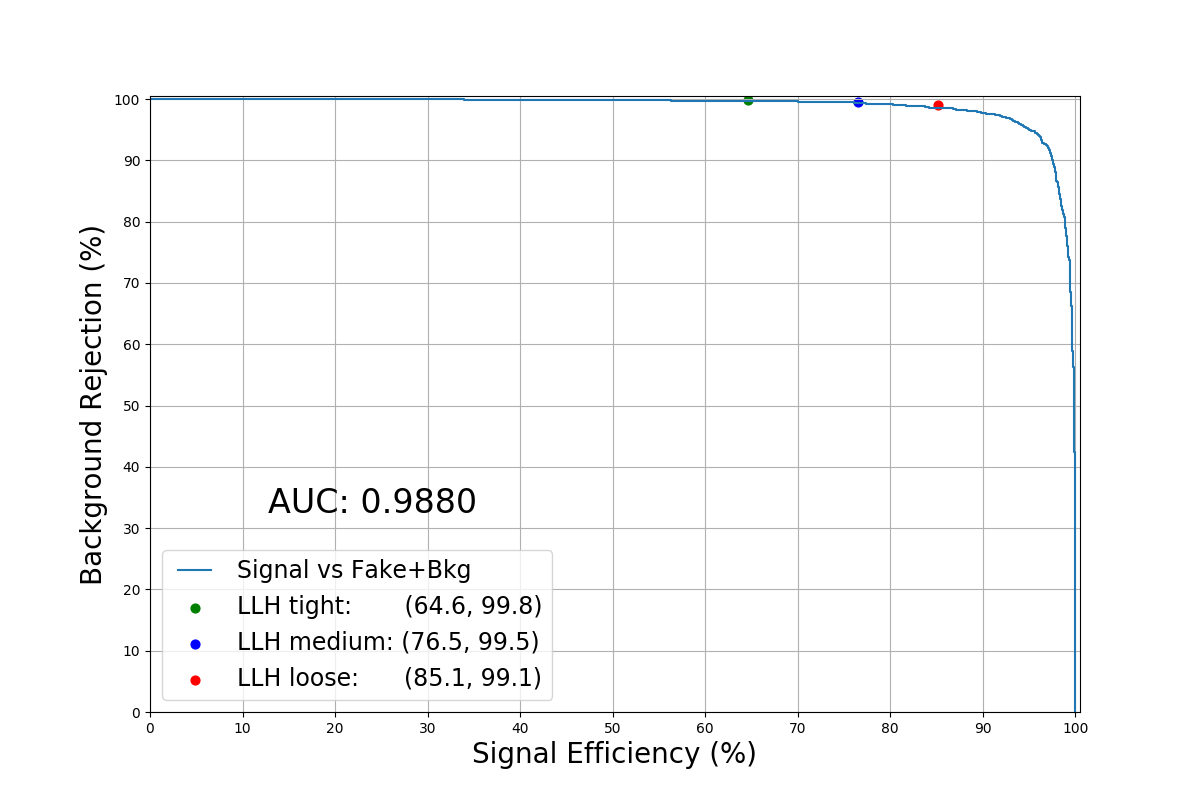
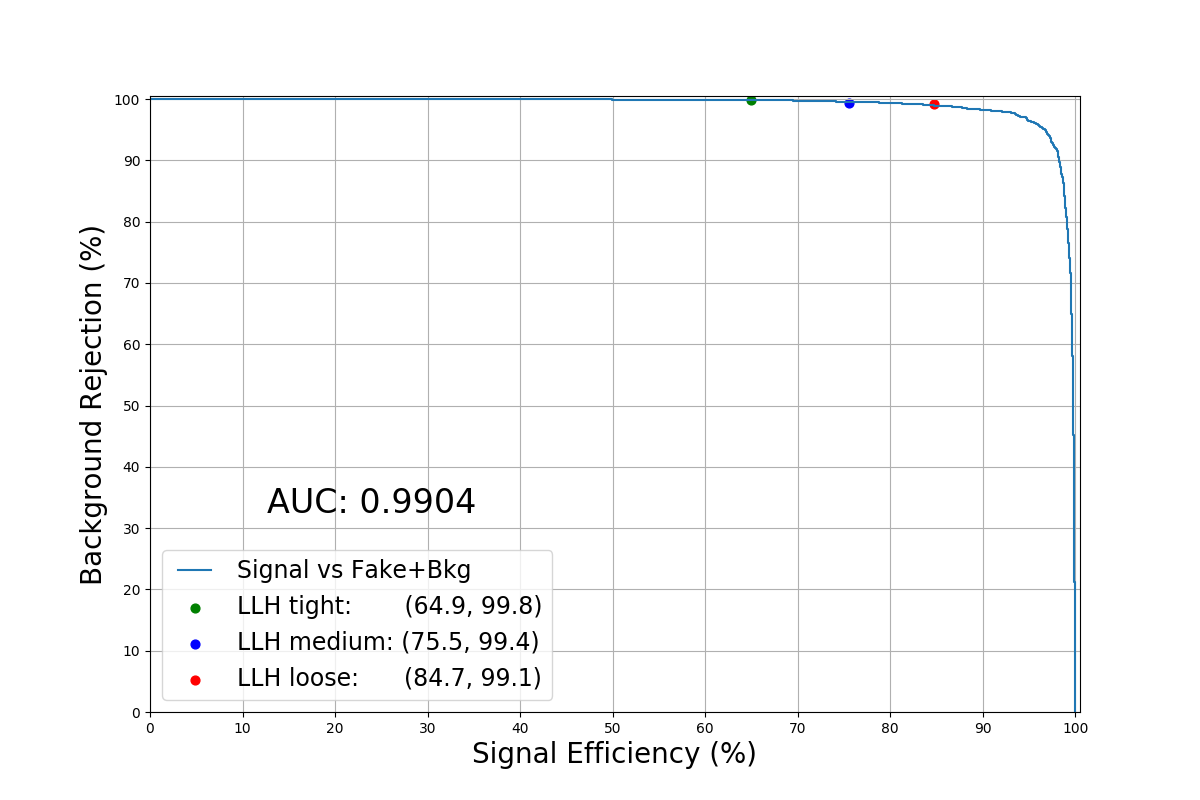
Added multiprocessing capabilities for data loading

diff --git a/classifier.py b/classifier.py
@@ -1,51 +1,61 @@
 # IMPORTS
-import tensorflow as tf, numpy as np, time, os, sys
-from   argparse import ArgumentParser
-from   utils    import make_indices, load_files, pad_images, inverse_images
-from   utils    import Batch_Generator, Get_Batch
-from   models   import CNN_multichannel
-from   plots    import accuracy, plot_accuracy, plot_distributions
-from   plots    import plot_ROC1_curve, plot_ROC2_curve, cal_images
+import tensorflow as tf, numpy as np, multiprocessing, time, os, sys
+from   argparse  import ArgumentParser
+from   functools import partial
+from   utils     import make_indices, load_files, inverse_images
+from   utils     import process_images, Batch_Generator, Get_Batch
+from   models    import CNN_multichannel
+from   plots     import accuracy, plot_accuracy, plot_distributions
+from   plots     import plot_ROC1_curve, plot_ROC2_curve, cal_images
+
+
 parser = ArgumentParser()
-parser.add_argument( '--generator'   , default='OFF'           )
-parser.add_argument( '--plotting'    , default='OFF'           )
-parser.add_argument( '--symmetries'  , default='OFF'           )
-parser.add_argument( '--cal_images'  , default='OFF'           )
-parser.add_argument( '--checkpoint'  , default='checkpoint.h5' )
-parser.add_argument( '--load_weights', default='OFF'           )
-parser.add_argument( '--epochs'      , default=100, type=int   )
-parser.add_argument( '--batch_size'  , default=500, type=int   )
+parser.add_argument( '--generator'   , default='OFF'            )
+parser.add_argument( '--plotting'    , default='OFF'            )
+parser.add_argument( '--symmetries'  , default='OFF'            )
+parser.add_argument( '--cal_images'  , default='OFF'            )
+parser.add_argument( '--checkpoint'  , default='checkpoint.h5'  )
+parser.add_argument( '--load_weights', default='OFF'            )
+parser.add_argument( '--epochs'      , default=100,  type=int   )
+parser.add_argument( '--batch_size'  , default=500,  type=int   )
+parser.add_argument( '--random_state', default=None, type=int   )
 args = parser.parse_args()
 
 
 # DATAFILES DEFINITIONS
 file_path  = '/lcg/storage16/atlas/godin/el_data/2019-11-05/'
+#file_path  = '/opt/tmp/godin/el_data/2019-11-05/'
 file_names = [file_path+file for file in os.listdir(file_path) if '.h5' in file]
 
 
 # FEATURES AND ARCHITECTURES
-images       = [ 's0','s1', 's2', 's3','s4','s5','s6' ] #+[ 'tracks' ]
+images       = [ 's0','s1', 's2', 's3','s4','s5','s6' ] #+ [ 'tracks' ]
 tracks       = [ 'tracks' ]
-scalars      = [ 'Eratio', 'Reta', 'Rhad', 'Rphi', 'TRTPID', 'd0', 'd0Sig', 'dPhiRes2', 'dPoverP',
-                 'deltaEta1', 'e', 'eta', 'f1', 'f3', 'mu', 'nSCT', 'phi', 'pt', 'weta2']
+scalars      = [ 'Eratio', 'Reta', 'Rhad', 'Rphi', 'TRTPID', 'd0', 'd0Sig', 'dPhiRes2',
+                 'dPoverP', 'deltaEta1', 'e', 'eta', 'f1', 'f3', 'mu', 'nSCT', 'weta2']
 architecture = 'CNN_multichannel'
 #features     = {'images':[], 'tracks':[], 'scalars':['pt','phi']}
 features     = {'images':images, 'tracks':tracks, 'scalars':scalars}
 
 
-# PLOTTING CALORIMETER IMAGES AND EXITING
+# IF ACTIVATED: PLOTTING CALORIMETER IMAGES AND EXITING
 if args.cal_images == 'ON': cal_images(file_names, images)
 
 
 # RANDOM TRAIN AND TEST INDICES GENERATION
-train_indices, test_indices = make_indices(file_names, random_state=None)
+train_indices, test_indices = make_indices(file_names, random_state=args.random_state)
 
 
-# ARCHITECTURE SELECTION AND MULTIPROCESSING
+# CPU COUNT FOR MULTIPROCESSING
+for n in np.arange( multiprocessing.cpu_count(),0,-1):
+    if test_indices[1].shape % n == 0: n_cpus = n ; break
+
+
+# ARCHITECTURE SELECTION AND MULTI-GPU PROCESSING
 single_sample = load_files(file_names, train_indices, batch_size=len(train_indices), index=0)
 images_shape, tracks_shape = single_sample[0]['s1'].shape, single_sample[0]['tracks'].shape
 if args.generator == 'ON':
-    n_gpus = 1
+    n_gpus = min(1,len(tf.config.experimental.list_physical_devices('GPU')))
     model = CNN_multichannel(images_shape, tracks_shape, len(file_names), **features)
     print() ; model.summary()
     if '.h5' in args.load_weights:
@@ -71,24 +81,36 @@ if args.generator == 'ON':
     train_generator = Batch_Generator(file_names, train_indices, train_batch_size, **features)
     test_generator  = Batch_Generator(file_names,  test_indices,  test_batch_size, **features)
 else:
-    print('\nCLASSIFIER: data generator is OFF\nCLASSIFIER: loading data into memory...')
+    print('\nCLASSIFIER: data generator is OFF\nCLASSIFIER: loading data using', n_cpus, 'CPUs...')
     start_time    = time.time()
-    train_sample  = load_files(file_names, train_indices, batch_size=train_indices.size, index=0)
-    test_sample   = load_files(file_names,  test_indices, batch_size= test_indices.size, index=0)
-    print('CLASSIFIER: loading time:', format(time.time()-start_time,'.0f'), 's')
-    train_images  = pad_images(train_sample, features['images'], padding=True)
+    #train_sample  = load_files(file_names, train_indices, batch_size=train_indices.size, index=0)
+    #test_sample   = load_files(file_names,  test_indices, batch_size= test_indices.size, index=0)
+    pooler        = multiprocessing.Pool(n_cpus)
+    pool_func     = partial(load_files, file_names, train_indices, train_indices.size/n_cpus)
+    train_sample  = np.concatenate( pooler.map(pool_func, np.arange(0,n_cpus)) )
+    pool_func     = partial(load_files, file_names,  test_indices,  test_indices.size/n_cpus)
+    test_sample   = np.concatenate( pooler.map(pool_func, np.arange(0,n_cpus)) )
+    print('CLASSIFIER: loading time:', format(time.time() - start_time,'.0f'), 's\n')
+
+    print('CLASSIFIER: processing images...')
+    start_time    = time.time()
+    #train_images  = pad_images(train_sample, features['images'], padding=True)
+    #test_images   = pad_images(test_sample,  features['images'], padding=True)
+    train_images  = process_images(train_sample, features['images'], normalize=False)
+    test_images   = process_images(test_sample,  features['images'], normalize=False)
+    print('CLASSIFIER: processing time:', format(time.time() - start_time,'.0f'), 's')
+
     train_tracks  = [ train_sample[f] for f in features['tracks' ] ]
     train_scalars = [ train_sample[f] for f in features['scalars'] ]
     train_data    = train_images + train_tracks + train_scalars
+    test_data     =  test_images + [ test_sample[f] for f in features['tracks']+features['scalars']]
     train_labels  = train_sample['truthmode']
-    test_images   = pad_images(test_sample,  features['images'], padding=True)
-    test_data     = test_images + [ test_sample[f] for f in features['tracks']+features['scalars']]
-    test_labels   = test_sample['truthmode']
+    test_labels   =  test_sample['truthmode']
 
 
-# VERTICAL AND  HORIZONTAL IMAGES SYMMETRIES
+# DATA AUGMENTATION WITH IMAGES SYMMETRIES
 if args.symmetries == 'ON' and args.generator != 'ON':
-    print('\nCLASSIFIER: using data augmentation with images symmetries')
+    print('\nCLASSIFIER: using data augmentation with images symmetries\n')
     train_data, train_labels = inverse_images(train_images, train_tracks, train_scalars, train_labels)
 
 
@@ -104,26 +126,27 @@ if args.generator == 'ON': callbacks_list.append(Get_Batch(train_generator))
 
 
 # TRAINING AND TESTING
-print('\nCLASSIFIER: training Sample:',  train_indices.size, 'e-')
-print(  'CLASSIFIER: testing Sample:  ',  test_indices.size, 'e-')
-print('\nCLASSIFIER: using TensorFlow',  tf.__version__          )
-print(  'CLASSIFIER: using',             n_gpus, 'GPU(s)'        )
-print('\nCLASSIFIER: using model',       architecture            )
-print(  'CLASSIFIER: starting training\n'                        )
+print('\nCLASSIFIER: training Sample:',  train_indices.size, 'e')
+print(  'CLASSIFIER: testing Sample:  ',  test_indices.size, 'e')
+print('\nCLASSIFIER: using TensorFlow',   tf.__version__        )
+print(  'CLASSIFIER: using',              n_gpus, 'GPU(s)'      )
+print('\nCLASSIFIER: using model',        architecture          )
+print(  'CLASSIFIER: starting training\n'                       )
 if args.generator == 'ON':
-    print('CLASSIFIER: using batches generator'                                                 )
-    print('CLASSIFIER: training batches:',   len(train_generator), 'x', train_batch_size, 'e-'  )
-    print('CLASSIFIER: testing batches:  ',  len(test_generator ), 'x',  test_batch_size, 'e-\n')
+    print('CLASSIFIER: using batches generator with', n_cpus, 'CPUs'                          )
+    print('CLASSIFIER: training batches:',  len(train_generator), 'x', train_batch_size, 'e'  )
+    print('CLASSIFIER: testing batches:  ', len(test_generator ), 'x',  test_batch_size, 'e\n')
     model_history = model.fit_generator( generator       = train_generator,
                                          validation_data =  test_generator,
                                          callbacks=callbacks_list,
-                                         workers=20, use_multiprocessing=True,
+                                         workers=n_cpus, use_multiprocessing=True,
                                          epochs=args.epochs, shuffle=True, verbose=1 )
 else:
     model_history = model.fit          ( train_data, train_labels,
                                          validation_data=(test_data,test_labels),
                                          callbacks=callbacks_list, epochs=args.epochs,
-                                         batch_size=n_gpus*args.batch_size, verbose=1 )
+                                         workers=n_cpus, use_multiprocessing=True,
+                                         batch_size=max(1,n_gpus)*args.batch_size, verbose=1 )
 
 
 #PLOTTING SECTION
@@ -132,9 +155,9 @@ if args.plotting == 'ON':
     if args.generator == 'ON':
         generator = Batch_Generator(file_names, test_indices, test_batch_size, **features)
         print('\nCLASSIFIER: recovering truth labels for plotting functions (generator batches:',
-               len(generator), 'x', test_batch_size, 'e-)')
+               len(generator), 'x', test_batch_size, 'e)')
         y_true = np.concatenate([ generator[i][1] for i in np.arange(0,len(generator)) ])
-        y_prob = model.predict_generator(generator, verbose=1, workers=20, use_multiprocessing=True)
+        y_prob = model.predict_generator(generator, verbose=1, workers=n_cpus, use_multiprocessing=True)
     else:
         y_true = test_labels
         y_prob = model.predict(test_data)

diff --git a/utils.py b/utils.py
@@ -1,5 +1,6 @@
 import tensorflow as tf, numpy as np, h5py
 from sklearn.model_selection import train_test_split
+from skimage                 import data, transform
 
 
 def make_indices(h5_files, test_size=0.1, random_state=0):
@@ -46,11 +47,27 @@ def pad_images(data, images_list, padding=False):
 
 
 def inverse_images(images, tracks, scalars, labels):
-    images  = [np.vstack([image, image[:,::-1,:], image[:,:,::-1]]) for image in images]
-    tracks  = [np.concatenate(3*[track])  for track  in tracks ]
-    scalars = [np.concatenate(3*[scalar]) for scalar in scalars]
-    labels  =  np.concatenate(3*[labels])
+    images  = [np.vstack([image, image[:,::-1,:], image[:,:,::-1], image[:,::-1,::-1]]) for image in images]
+    tracks  = [np.concatenate(4*[track])  for track  in tracks ]
+    scalars = [np.concatenate(4*[scalar]) for scalar in scalars]
+    labels  =  np.concatenate(4*[labels])
     return images + tracks + scalars, labels
+
+
+def normalize_sample(images_sample):
+    return [ np.vstack([np.expand_dims(normalize_image(image),axis=0) for image in images_set])
+             for images_set in images_sample ]
+
+
+def normalize_image(image):
+    old_min, old_max = np.min(image), np.max(image)
+    return 0*image if old_min == old_max else (image-old_min)/(old_max-old_min)
+
+
+def process_images(data, images_list, normalize=False):
+    images = [ data[image] if image not in ['s4', 's5', 's6', 'tracks']
+               else transform.resize(data[image], (len(data[image]),11, 56)) for image in images_list ]
+    return normalize_sample(images) if normalize else images
 
 
 class Batch_Generator(tf.keras.utils.Sequence):
@@ -63,7 +80,8 @@ class Batch_Generator(tf.keras.utils.Sequence):
         return int(self.indices.size/self.batch_size)
     def __getitem__(self, index):
         data    = load_files(self.file_names, self.indices, self.batch_size, index)
-        images  = pad_images(data, self.images, padding=True)
+        #images  = pad_images(data, self.images, padding=True)
+        images  = process_images(data, self.images, normalize=False)
         tracks  = [data[track]  for track  in self.tracks ]
         scalars = [data[scalar] for scalar in self.scalars]
         return images + tracks + scalars, data['truthmode']

diff --git a/plots.py b/plots.py
@@ -1,5 +1,6 @@
 import numpy as np, h5py, sys
 import matplotlib.pyplot as plt
+import matplotlib.colors as colors
 from   matplotlib import pylab
 
 
@@ -102,6 +103,7 @@ def plot_ROC2_curve(files, indices, y_true, y_prob, file_name='outputs/ROC2_curv
     fpr[0:len(fpr[fpr==0])] = fpr[len(fpr[fpr==0])+1]/2
     axes = plt.gca()
     axes.xaxis.set_ticks(np.arange(0, 101, 10))
+    axes.yaxis.set_ticks( np.append([1],plt.yticks()[0][1:]) )
     plt.xlabel('Signal Efficiency (%)',fontsize=20)
     plt.ylabel('1/(Background Efficiency)',fontsize=20)
     plt.text(15, 750, 'AUC: '+str(format(auc(tpr,1/fpr),'.0f')),
@@ -118,7 +120,8 @@ def plot_ROC2_curve(files, indices, y_true, y_prob, file_name='outputs/ROC2_curv
 
 
 def plot_image(cal_image, n_classes, e_class, images, image):
-    norm_type = None #norm_type = LogNorm(0.0001, 1)
+    #norm_type = None
+    norm_type = colors.LogNorm(0.0001,1)
     limits = [-0.13499031, 0.1349903, -0.088, 0.088]
     e_image  = images.index(image)
     n_images = len(images)
